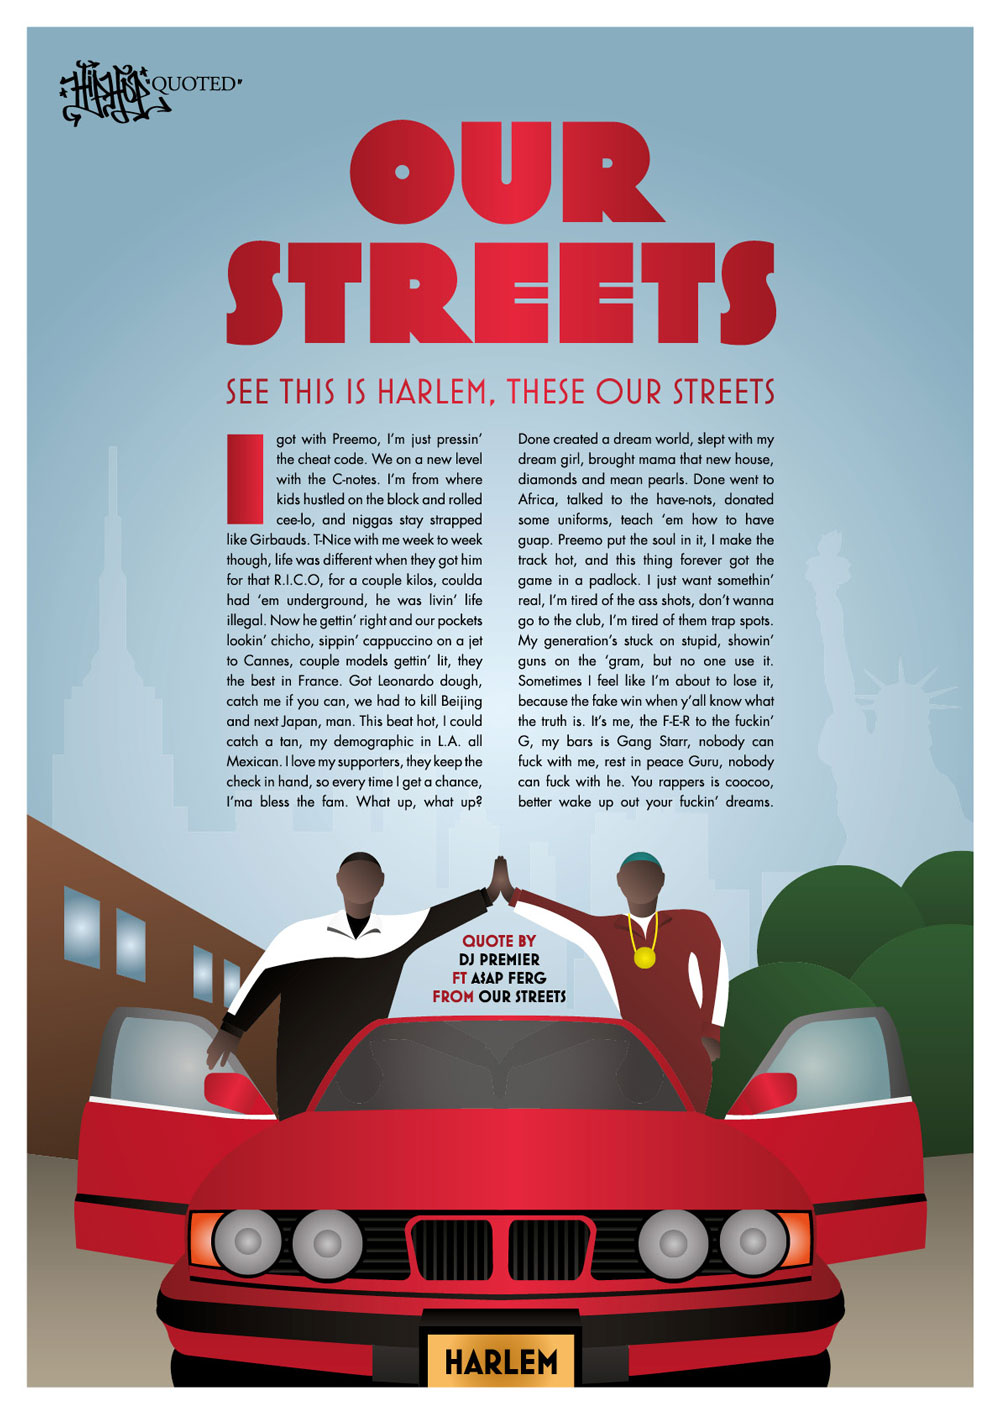
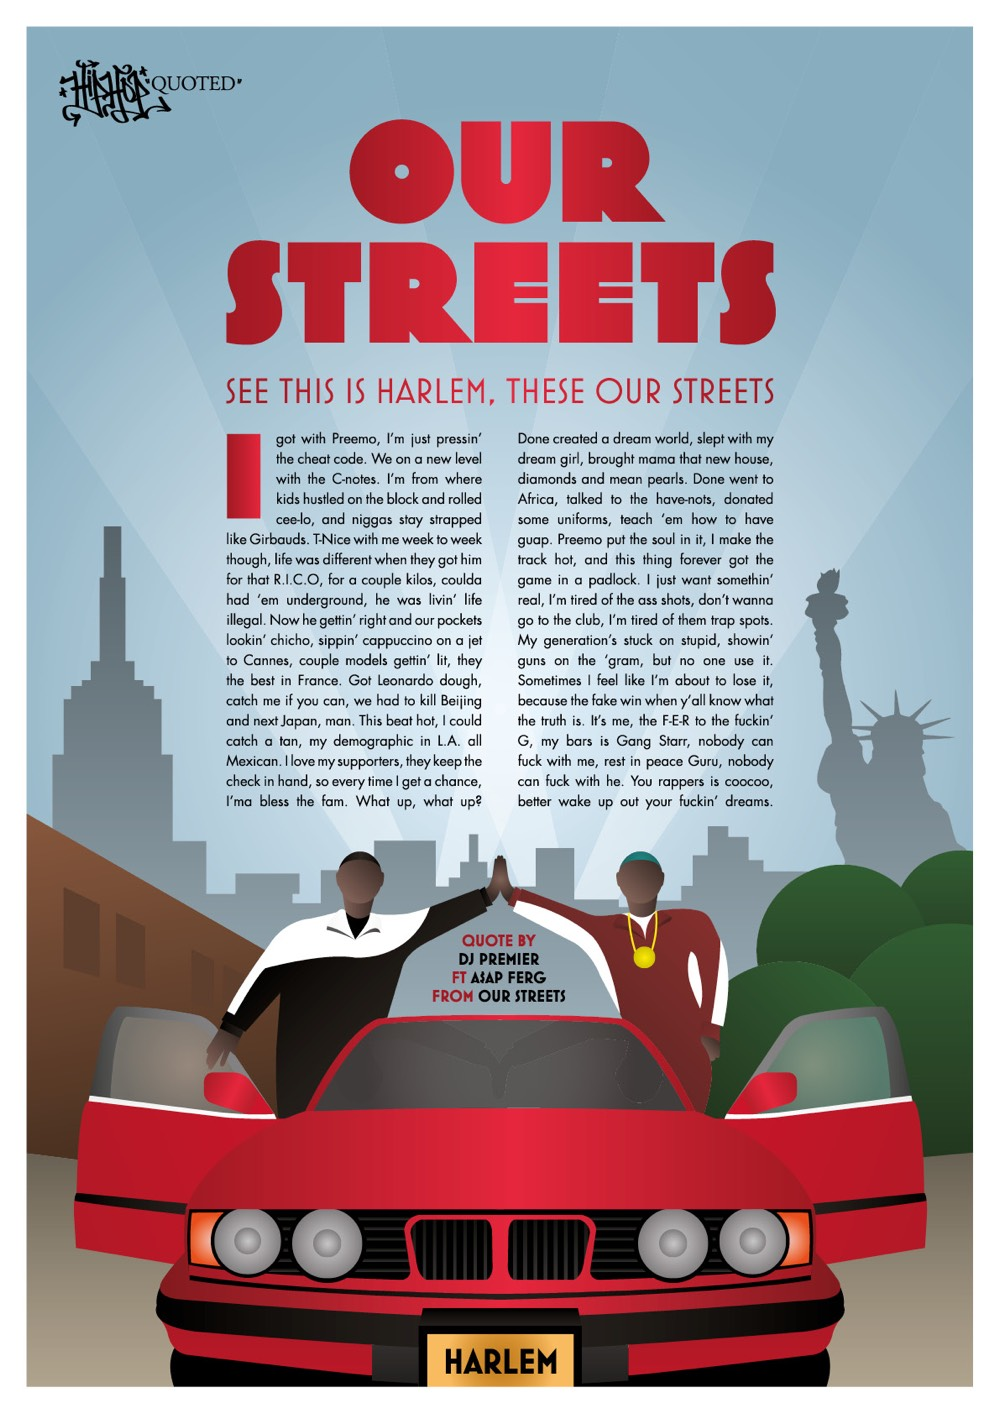
Add animations and updated dark mode

diff --git a/source/stylesheets/dj-premier-asap-ferg-our-streets.css.scss b/source/stylesheets/dj-premier-asap-ferg-our-streets.css.scss
@@ -28,22 +28,11 @@ body {
   border: 20px solid var(--color-white);
   border-width: 20px;
   color: var(--color-black);
+  overflow-x: hidden;
   position: relative;
-}
-
-body:before {
-  background: url("../images/dj-premier/skyline.svg") no-repeat bottom center;
-  background-size: 100% auto;
-  bottom: 0;
-  content: "";
-  left: 0;
-  position: absolute;
-  right: 0;
-  top: 0;
 
   @media (prefers-color-scheme: dark) {
-    filter: invert(100%);
-    -webkit-filter: invert(100%);
+    color: var(--color-white);
   }
 }
 
@@ -56,10 +45,18 @@ a {
 a:hover,
 a:focus {
   color: var(--color-black);
+
+  @media (prefers-color-scheme: dark) {
+    color: var(--color-white);
+  }
 }
 
 #logo path {
   fill: var(--color-black);
+
+  @media (prefers-color-scheme: dark) {
+    fill: var(--color-white);
+  }
 }
 
 #logo:hover path {
@@ -117,7 +114,7 @@ a:focus {
 }
 
 article {
-  margin: 0 auto -8%;
+  margin: 0 auto -4%;
   max-width: 48rem;
   padding: 0 2rem;
   width: 100%;
@@ -209,7 +206,7 @@ figcaption {
   position: relative;
   text-align: center;
   text-transform: uppercase;
-  top: 13vw;
+  top: 16.5vw;
   z-index: 10;
 
   @media (prefers-color-scheme: dark) {
@@ -222,10 +219,6 @@ figcaption {
     margin: 2rem auto;
     max-width: 80%;
   }
-
-  // @media screen and (min-width: 1500px) {
-  //   margin: 28% auto 0;
-  // }
 }
 
 figcaption a,
@@ -235,10 +228,123 @@ figcaption cite {
 
 .car-image {
   display: block;
+  position: relative;
   width: 100%;
+  z-index: 2;
 
   @media (prefers-color-scheme: dark) {
     filter: brightness(70%);
     -webkit-filter: brightness(70%);
   }
+}
+
+.skyline-image {
+  bottom: 0;
+  left: 0;
+  position: absolute;
+  right: 0;
+
+  @media (prefers-color-scheme: dark) {
+    filter: invert(100%) grayscale(100%) brightness(50%);
+    -webkit-filter: invert(100%) grayscale(100%) brightness(50%);
+  }
+}
+
+// Spotlights
+
+.spotlight {
+  background: linear-gradient(0deg, rgba(255,255,255,.8), rgba(255,255,255,0));
+  bottom: 25vw;
+  clip-path: polygon(20% 0%, 80% 0%, 57% 100%, 48% 99%);
+  height: 100%;
+  position: absolute;
+  z-index: -1;
+
+  @media (prefers-color-scheme: dark) {
+    background: linear-gradient(0deg, rgba(255,255,255,.1), rgba(255,255,255,0));
+  }
+}
+
+.spotlight:nth-of-type(1) {
+  animation: spotlight-one 8s infinite;
+  left: 15vw;
+  transform: rotate(-35deg);
+  width: 400px;
+
+  @media (prefers-reduced-motion: reduce) {
+    animation: none;
+  }
+}
+
+.spotlight:nth-of-type(2) {
+  animation: spotlight-two 8s infinite;
+  left: 30vw;
+  transform: rotate(20deg);
+  width: 400px;
+
+  @media (prefers-reduced-motion: reduce) {
+    animation: none;
+  }
+}
+
+.spotlight:nth-of-type(3) {
+  animation: spotlight-three 8s infinite;
+  right: 30vw;
+  transform: rotate(-20deg);
+  width: 400px;
+
+  @media (prefers-reduced-motion: reduce) {
+    animation: none;
+  }
+}
+
+.spotlight:nth-of-type(4) {
+  animation: spotlight-four 8s infinite;
+  right: 15vw;
+  transform: rotate(35deg);
+  width: 400px;
+
+  @media (prefers-reduced-motion: reduce) {
+    animation: none;
+  }
+}
+
+@-webkit-keyframes spotlight-one {
+  0, 100% { transform: rotate(-35deg); }
+  50% { transform: rotate(-10deg); }
+}
+
+@keyframes spotlight-one {
+  0, 100% { transform: rotate(-35deg); }
+  50% { transform: rotate(-10deg); }
+}
+
+@-webkit-keyframes spotlight-two {
+  0, 100% { transform: rotate(20deg); }
+  50% { transform: rotate(10deg); }
+}
+
+@keyframes spotlight-two {
+  0, 100% { transform: rotate(20deg); }
+  50% { transform: rotate(10deg); }
+}
+
+@-webkit-keyframes spotlight-three {
+  0, 100% { transform: rotate(-20deg); }
+  50% { transform: rotate(-10deg); }
+}
+
+@keyframes spotlight-three {
+  0, 100% { transform: rotate(-20deg); }
+  50% { transform: rotate(-10deg); }
+}
+
+@-webkit-keyframes spotlight-four {
+  0, 100% { transform: rotate(35deg); }
+  50% { transform: rotate(10deg); }
+}
+
+@keyframes spotlight-four {
+  0, 100% { transform: rotate(35deg); }
+  50% { transform: rotate(10deg); }
 }
